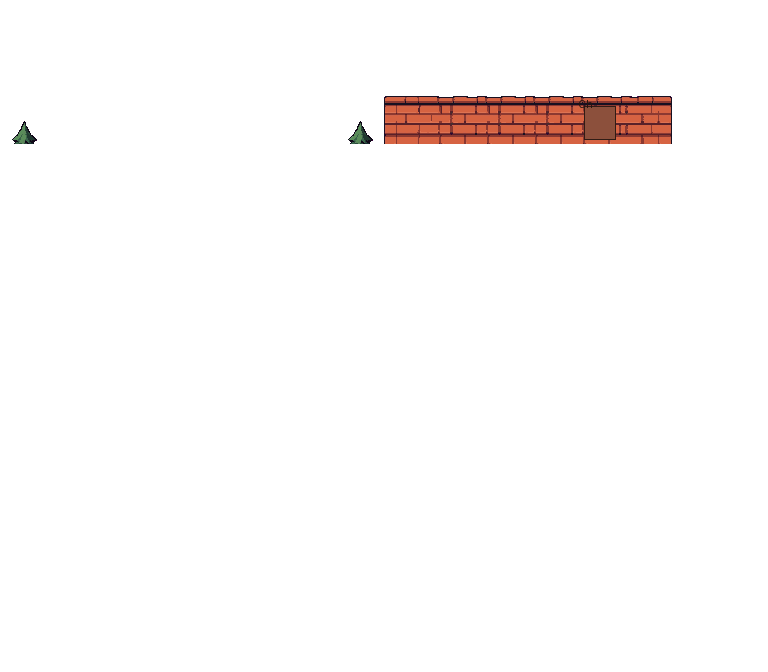
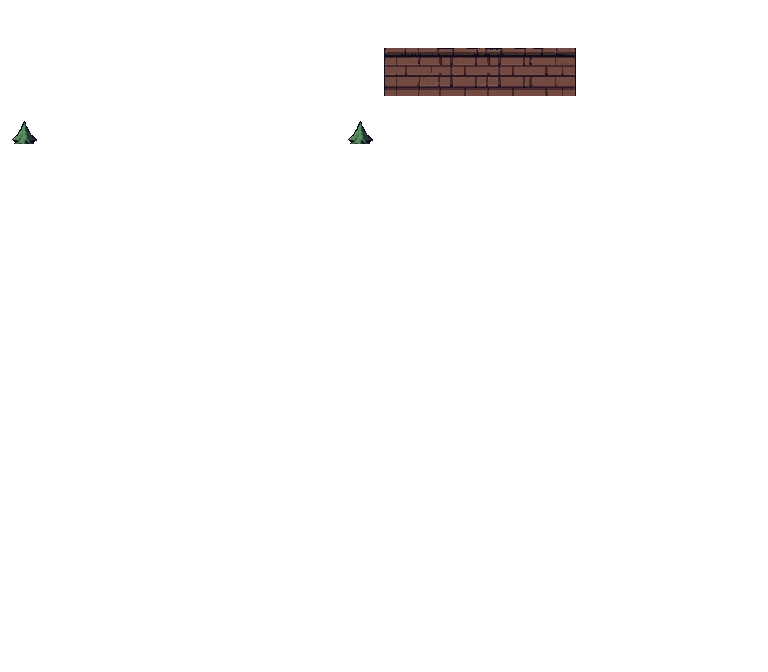
approve inn prefab (E1); prefab buildings and two-storey houses in the compiler; run-wide 100-image cap in the budget guard

Changed region(s): [[0.5, 0.0625, 0.875, 0.2188]]

diff --git a/assets-src/gen/kitsheet.py b/assets-src/gen/kitsheet.py
@@ -33,7 +33,13 @@ def grid_box(cols: int, rows: int, size: tuple[int, int] = GUIDE_SIZE, tile: int
     return x0, y0, x0 + w, y0 + h
 
 
+def base(name: str) -> str:
+    """Part name without its style suffix (roof_ridge_m@timber -> roof_ridge_m)."""
+    return name.split("@")[0]
+
+
 def _kind(name: str) -> str:
+    name = base(name)
     if name.startswith("roof_"):
         return "roof"
     if "door" in name:
@@ -58,7 +64,7 @@ def guide(cells: list[list[str]], size: tuple[int, int] = GUIDE_SIZE, tile: int 
             kind = _kind(name)
             d.rectangle([bx, by, bx + TILE_GUIDE - 1, by + TILE_GUIDE - 1], fill=SHADES["roof" if kind == "roof" else "wall"])
             if kind == "door":
-                top = round(tile * 70 / 240) if name.endswith("_top") else 0
+                top = round(tile * 70 / 240) if base(name).endswith("_top") else 0
                 m = round(tile * 50 / 240)
                 d.rectangle([bx + m, by + top, bx + TILE_GUIDE - m - 1, by + TILE_GUIDE - 1], fill=SHADES["door"])
             if kind == "window":
@@ -293,7 +299,10 @@ def _period(sig: np.ndarray, g0: int, g1: int, n: int, lo: int = 10, hi: int = 6
 
 
 def cut(raw: Image.Image, cells: list[list[str]], seed: int = 0, size: tuple[int, int] = GUIDE_SIZE,
-        tile: int = TILE_GUIDE, derive: dict | None = None, hairlines: bool = True) -> tuple[Image.Image, dict]:
+        tile: int = TILE_GUIDE, derive: dict | None = None, hairlines: bool = True,
+        prefab: str | None = None) -> tuple[Image.Image, dict]:
+    """prefab: keep the drawing exactly as drawn (no repeated-part substitution, no derived parts) and name its
+    cells <prefab>_<row>_<col>, for a unique building stamped whole."""
     rows, cols = len(cells), len(cells[0])
     GUIDE_SIZE, TILE_GUIDE = size, tile  # noqa: N806 (this sheet's geometry)
     T = 48
@@ -328,7 +337,7 @@ def cut(raw: Image.Image, cells: list[list[str]], seed: int = 0, size: tuple[int
     seams = {}
     for r, row in enumerate(cells):
         for c, name in enumerate(row):
-            if name and name.endswith("_m"):
+            if name and base(name).endswith("_m"):
                 seams.setdefault(name, []).append((seam_ratio(sheet[r * T:(r + 1) * T, c * T:(c + 1) * T]), r, c))
     best = {n: min(v) for n, v in seams.items()}
     # a repeatable middle part may come from anywhere along its row band (the roof runs unbroken across the
@@ -360,6 +369,11 @@ def cut(raw: Image.Image, cells: list[list[str]], seed: int = 0, size: tuple[int
         "seams": all(v[0] <= 1.5 for v in best.values()),
         "colours": report["colours"] <= COLORS,
     }
+    if prefab:
+        report["cells"] = [[f"{prefab}_{r}_{c}" for c in range(cols)] for r in range(rows)]
+        report["pass"]["seams"] = True               # nothing repeats in a prefab
+        report["prefab"] = prefab
+        return Image.fromarray(sheet), report
     # repeated middle parts: copy the best-seam copy into every slot so the kit is consistent
     out = sheet.copy()
     for name, (_, r, c) in best.items():
@@ -408,26 +422,39 @@ def paint_out(tile: np.ndarray) -> np.ndarray:
 
 
 def _door_height(sheet: np.ndarray, cells: list[list[str]]) -> int | None:
-    """Rows of the door column (door_top over door_bottom) whose centre differs from the plain wall colour."""
+    """Rows of the door column (door_top over door_bottom) whose centre strip is mostly the door's own colours: the
+    commonest colours in the middle of the door's bottom cell that are rare on the plain wall (works on smooth
+    plaster and on textured stone alike)."""
     T = 48
-    pos = {name: (r, c) for r, row in enumerate(cells) for c, name in enumerate(row)}
+    pos = {base(name): (r, c) for r, row in enumerate(cells) for c, name in enumerate(row) if name}
     if "wall_door_top" not in pos or "wall_lo_plain" not in pos:
         return None
     (rt, ct), (rp, cp) = pos["wall_door_top"], pos["wall_lo_plain"]
-    wall = np.median(sheet[rp * T:(rp + 1) * T, cp * T:(cp + 1) * T, :3].reshape(-1, 3), axis=0)
-    col = sheet[rt * T:(rt + 2) * T, ct * T + 12:ct * T + 36, :3].astype(np.float32)
-    far = (np.abs(col - wall).sum(-1) > 90).mean(1) > 0.6
-    return int(far.sum())
-
+    key = lambda a: (a[..., 0].astype(np.int64) << 16) | (a[..., 1].astype(np.int64) << 8) | a[..., 2]  # noqa: E731
+    strip = key(sheet[rt * T:(rt + 2) * T, ct * T + 16:ct * T + 32, :3])
+    wall = key(sheet[rp * T:(rp + 1) * T, cp * T:(cp + 1) * T, :3])
+    bottom = strip[T + 8:]                          # the door's bottom cell, below any frame
+    vals, cnt = np.unique(bottom, return_counts=True)
+    wall_vals, wall_cnt = np.unique(wall, return_counts=True)
+    wall_share = dict(zip(wall_vals.tolist(), (wall_cnt / wall.size).tolist()))
+    door_cols = {v for v, n in zip(vals.tolist(), cnt.tolist()) if n / bottom.size > 0.05 and wall_share.get(v, 0) < 0.02}
+    if not door_cols:
+        return None
+    is_door = np.isin(strip, list(door_cols)).mean(1) > 0.5
+    return int(is_door.sum())
 
 def review(raw: Image.Image, sheet: Image.Image, report: dict, cells: list[list[str]]) -> Image.Image:
     """Raw | cut at in-game 2x | a test house 7 wide built from the parts, with the knight for scale."""
     T = 48
     s2 = sheet.resize((sheet.width * 2, sheet.height * 2), Image.Resampling.NEAREST)
-    parts = {name: sheet.crop((c * T, r * T, (c + 1) * T, (r + 1) * T))
+    parts = {base(name): sheet.crop((c * T, r * T, (c + 1) * T, (r + 1) * T))
              for r, row in enumerate(report["cells"]) for c, name in enumerate(row) if name}
     plan = [["roof_ridge_l"] + ["roof_ridge_m"] * 5 + ["roof_ridge_r"],
-            ["roof_eave_l"] + ["roof_eave_m"] * 5 + ["roof_eave_r"],
+            ["roof_eave_l"] + ["roof_eave_m"] * 5 + ["roof_eave_r"]]
+    if "wall_up2_l" in parts:
+        plan.append(["wall_up2_l", "wall_up2_window", "wall_up2_plain", "wall_up2_window", "wall_up2_plain",
+                     "wall_up2_window", "wall_up2_r"])
+    plan += [
             ["wall_up_l", "wall_up_plain", "wall_up_window", "wall_door_top", "wall_up_window", "wall_up_plain", "wall_up_r"],
             ["wall_lo_l", "wall_lo_plain", "wall_lo_plain", "wall_door_bottom", "wall_lo_plain", "wall_lo_plain", "wall_lo_r"]]
     rows = len(plan)

diff --git a/assets-src/tools/build_map.py b/assets-src/tools/build_map.py
@@ -134,7 +134,7 @@ def parse_ground(text: str) -> list[list[str]]:
 
 def footprint(o: dict) -> list[tuple[int, int]]:
     t, x, y = o["type"], o.get("x"), o.get("y")
-    if t == "house":
+    if t in ("house", "prefab"):
         return [(x + i, y + j) for j in range(o["h"]) for i in range(o["w"])]
     if t == "tree":
         return [(x, y - 1), (x, y)]
@@ -250,7 +250,11 @@ def compile_map(src: dict, kit: K.Kit, check_interiors: bool = True) -> Compiled
             windows = set(o.get("windows") or [])
             if door is not None and not 1 <= door <= w - 2:
                 raise MapError(f"house {n}: door column {door} must be a middle column (1..{w - 2})")
-            roof_rows = ["ridge"] + ["mid"] * (h - 4) + ["eave"]
+            storeys = o.get("storeys", 1)
+            wall_rows = 2 + (storeys - 1)                # an upper storey adds one wall row above the ground floor
+            if h < wall_rows + 2:
+                raise MapError(f"house {n}: {storeys} storeys need h >= {wall_rows + 2}")
+            roof_rows = ["ridge"] + ["mid"] * (h - wall_rows - 2) + ["eave"]
             for j, row in enumerate(roof_rows):
                 for i in range(w):
                     col = "l" if i == 0 else "r" if i == w - 1 else "m"
@@ -268,16 +272,45 @@ def compile_map(src: dict, kit: K.Kit, check_interiors: bool = True) -> Compiled
                     up, lo = "wall_up_plain", "wall_lo_plain"
                 _paste(canvas, styled(kit, up, o.get("wall")), x + i, y + h - 2)
                 _paste(canvas, styled(kit, lo, o.get("wall")), x + i, y + h - 1)
+                if storeys == 2:                         # upstairs: windows over the listed columns and the door
+                    side = "l" if i == 0 else "r" if i == w - 1 else None
+                    up2 = (f"wall_up2_{side}" if side else
+                           "wall_up2_window" if (i in windows or i == door) else "wall_up2_plain")
+                    _paste(canvas, styled(kit, up2, o.get("wall")), x + i, y + h - 3)
             if o.get("sign"):
                 if door is None:
                     raise MapError(f"house {n}: a sign needs a door column")
-                _paste(canvas, kit.part(f"sign_{o['sign']}"), x + door, y + h - 3)
+                _paste(canvas, kit.part(f"sign_{o['sign']}"), x + door, y + h - 1 - wall_rows)   # on the eave
             if o.get("chimney") is not None:
                 _paste(top, kit.part("chimney"), x + o["chimney"], y)
             for j in range(h):
                 for i in range(w):
                     coll[y + j, x + i] = WALL
             coll[y, x:x + w] = grid_terrain_row(grid, y, x, w)       # ridge row: walk behind the house
+            if door is not None:
+                coll[y + h - 1, x + door] = ROAD
+                if o.get("name"):
+                    entrances[o["name"]] = [x + door, y + h]
+                if o.get("enter"):
+                    e = o["enter"]
+                    transitions.append({"x": x + door, "y": y + h - 1, "targetMap": e["map"],
+                                        "targetEntrance": e["entrance"]})
+                    if check_interiors:
+                        _check_interior_entrance(e["map"], e["entrance"])
+        elif t == "prefab":
+            # a unique building drawn whole (kit cells <prefab>_<row>_<col>): stamped as drawn; the top `ridge_rows`
+            # rows are walkable and drawn over characters, the door cell on the bottom row is walkable
+            w, h, door, pf = o["w"], o["h"], o.get("door"), o["prefab"]
+            ridge = o.get("ridge_rows", 1)
+            for j in range(h):
+                for i in range(w):
+                    name = f"{pf}_{j}_{i}"
+                    part = kit.parts.get(name) or K.placeholder_tile(name)
+                    _paste(top if j < ridge else canvas, part, x + i, y + j)
+                    coll[y + j, x + i] = WALL
+            coll[y:y + ridge, x:x + w] = [grid_terrain_row(grid, y + j, x, w) for j in range(ridge)]
+            if o.get("sign") and door is not None:
+                _paste(canvas, kit.part(f"sign_{o['sign']}"), x + door, y + o.get("sign_row", ridge))
             if door is not None:
                 coll[y + h - 1, x + door] = ROAD
                 if o.get("name"):

diff --git a/assets-src/gen/generate.py b/assets-src/gen/generate.py
@@ -43,6 +43,7 @@ from gen import spec as S  # noqa: E402
 OUT = HERE / "out"
 CACHE = HERE / "cache"
 LEDGER = CACHE / "ledger.jsonl"
+BUDGET = HERE / "budget.json"
 REFS = HERE / "refs"
 STYLE_REF = REFS / "style_reference.jpg"
 STYLE_REF_CROP = (300, 270, 2800, 1100)
@@ -377,6 +378,19 @@ def check_budget(requests: list[Request], *, paid: bool, max_paid: int, retry: b
                          "(only the user may raise --max-paid)")
     if not paid:
         raise SystemExit(f"refused: {len(misses)} uncached request(s) need --paid (run --dry-run to inspect first)")
+    attempts = [e for e in ledger if e.get("event") == "attempt"]
+    if BUDGET.exists():                              # the user's run-wide hard cap (budget.json)
+        b = json.loads(BUDGET.read_text())
+        used = len(attempts) - b["attempts_before"]
+        if used + len(misses) > b["cap"]:
+            raise SystemExit(f"refused: the run cap of {b['cap']} paid images is reached ({used} used); only the user "
+                             "may approve more")
+        run = attempts[b["attempts_before"]:]
+        for r in misses:
+            n = sum(1 for e in run if e.get("character") == r.character and e.get("sheet") == r.sheet.name)
+            if n >= b["max_attempts_per_sheet"]:
+                raise SystemExit(f"refused: {r.character}/{r.sheet.name} already used {n} attempts this run "
+                                 f"(max {b['max_attempts_per_sheet']})")
     for r in misses:
         prior = [e for e in ledger if e.get("character") == r.character and e.get("sheet") == r.sheet.name
                  and e.get("event") == "attempt"]
@@ -716,7 +730,8 @@ def write_kit(outdir: Path, char: dict, r: Request, raw: Image.Image, seed: int)
         return report
     cells = ks["cells"]
     size, tile = KS.geo(ks)
-    sheet, report = KS.cut(raw, cells, seed, size, tile, ks.get("derive"), hairlines=ks.get("grid_lines", True))
+    sheet, report = KS.cut(raw, cells, seed, size, tile, ks.get("derive"), hairlines=ks.get("grid_lines", True),
+                           prefab=ks.get("prefab"))
     r.guide.save(outdir / f"{r.sheet.name}_guide.png")
     raw.save(outdir / f"{r.sheet.name}_raw.png")
     sheet.save(outdir / f"{r.sheet.name}.png")

diff --git a/assets-src/gen/selftest.py b/assets-src/gen/selftest.py
@@ -7,6 +7,7 @@ and the size-reference crop.
 """
 from __future__ import annotations
 
+import json
 import sys
 import tempfile
 from pathlib import Path
@@ -159,6 +160,15 @@ def test_budget_guard() -> None:
     check(refused(lambda: GEN.check_budget([a, b], paid=True, max_paid=1, retry=False, ledger=[])), "2 misses > max-paid 1 refused")
     check(refused(lambda: GEN.check_budget([a], paid=False, max_paid=1, retry=False, ledger=[])), "uncached without --paid refused")
     check(GEN.check_budget([a], paid=True, max_paid=1, retry=False, ledger=[]) == [a], "1 miss with --paid allowed")
+    if GEN.BUDGET.exists():
+        b = json.loads(GEN.BUDGET.read_text())
+        full = [{"event": "attempt", "character": "x", "sheet": "y"}] * (b["attempts_before"] + b["cap"])
+        check(refused(lambda: GEN.check_budget([a], paid=True, max_paid=1, retry=True, ledger=full)),
+              f"run cap: the {b['cap']}th-plus paid image is refused")
+        same = [{"event": "attempt", "character": "x", "sheet": "y"}] * b["attempts_before"] + \
+               [{"event": "attempt", "character": a.character, "sheet": a.sheet.name}] * b["max_attempts_per_sheet"]
+        check(refused(lambda: GEN.check_budget([a], paid=True, max_paid=1, retry=True, ledger=same)),
+              f"run cap: more than {b['max_attempts_per_sheet']} attempts at one sheet refused")
     with tempfile.TemporaryDirectory() as tmp:
         led = Path(tmp) / "ledger.jsonl"
         try:

diff --git a/assets-src/tools/kit.py b/assets-src/tools/kit.py
@@ -43,6 +43,8 @@ for col in ("l", "plain", "window", "r"):
     _PARTS[f"wall_up_{col}"] = ((225, 215, 190), "U" + col[0], "window" if col == "window" else "tile")
 for col in ("l", "plain", "r"):
     _PARTS[f"wall_lo_{col}"] = ((205, 195, 170), "L" + col[0], "tile")
+for col in ("l", "plain", "window", "r"):
+    _PARTS[f"wall_up2_{col}"] = ((215, 205, 180), "2" + col[0], "window" if col == "window" else "tile")
 _PARTS["wall_door_top"] = ((110, 70, 40), "Dt", "door_top")
 _PARTS["wall_door_bottom"] = ((110, 70, 40), "Db", "door_bottom")
 for s in SIGNS:
@@ -127,6 +129,15 @@ def placeholder_part(name: str) -> Image.Image:
             d.line([x, y, x, y + 5], fill=fill)
     if label:
         d.text((3, 2), label, fill=(*_dark(col, 0.25), 255), font=_font())
+    return im
+
+
+def placeholder_tile(name: str) -> Image.Image:
+    """Generic labelled placeholder for a part the kit does not define yet (e.g. a prefab not approved)."""
+    im = Image.new("RGBA", (T, T), (190, 170, 150, 255))
+    d = ImageDraw.Draw(im)
+    d.rectangle([0, 0, T - 1, T - 1], outline=(60, 50, 40, 255))
+    d.text((3, 2), name[-5:], fill=(40, 30, 20, 255), font=_font())
     return im
 
 

diff --git a/docs/ACT1_LOG.md b/docs/ACT1_LOG.md
@@ -1,0 +1,15 @@
+# Act 1 run log
+
+The unattended run the user asked for on 2026-11-12. The goal is to complete Cornelia, Cornelia Castle, the
+overworld peninsula and the Temple of Fiends, with art, maps and the castle story, and to make 2x the default.
+
+**Rules:**
+- at most 100 more paid images (`assets-src/gen/budget.json`, enforced in `check_budget`)
+- self-approve when the metrics pass and the preview looks right
+- at most 2 retries per sheet
+
+## Decisions
+
+| # | Sheet | Images | Result | Decision |
+|---|---|---|---|---|
+| 1 | town/kit_inn (E1) | 1 | two-storey timber inn, stamped whole as a prefab; door 62 px | approved by the user |
